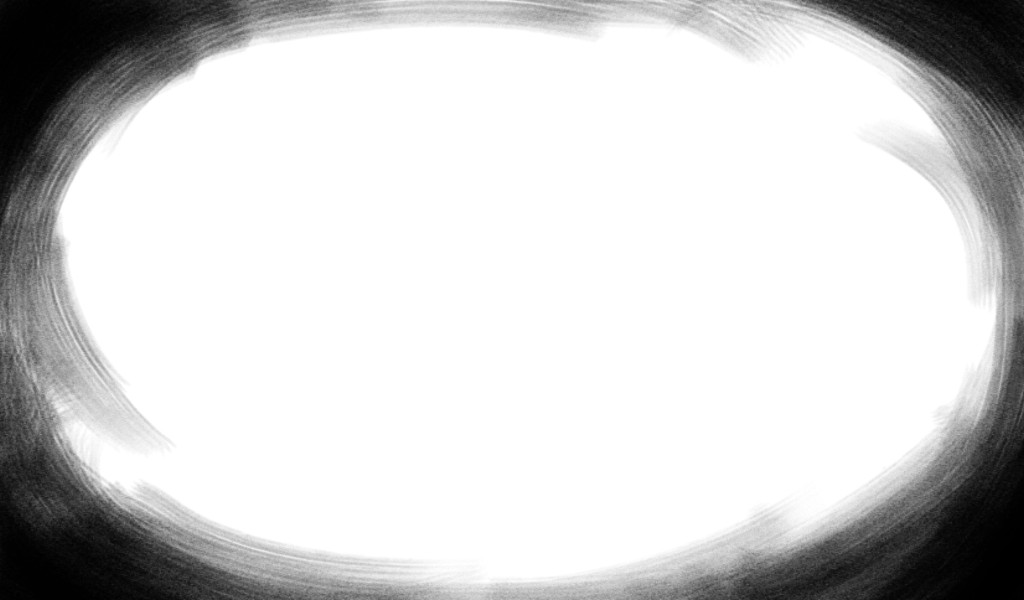
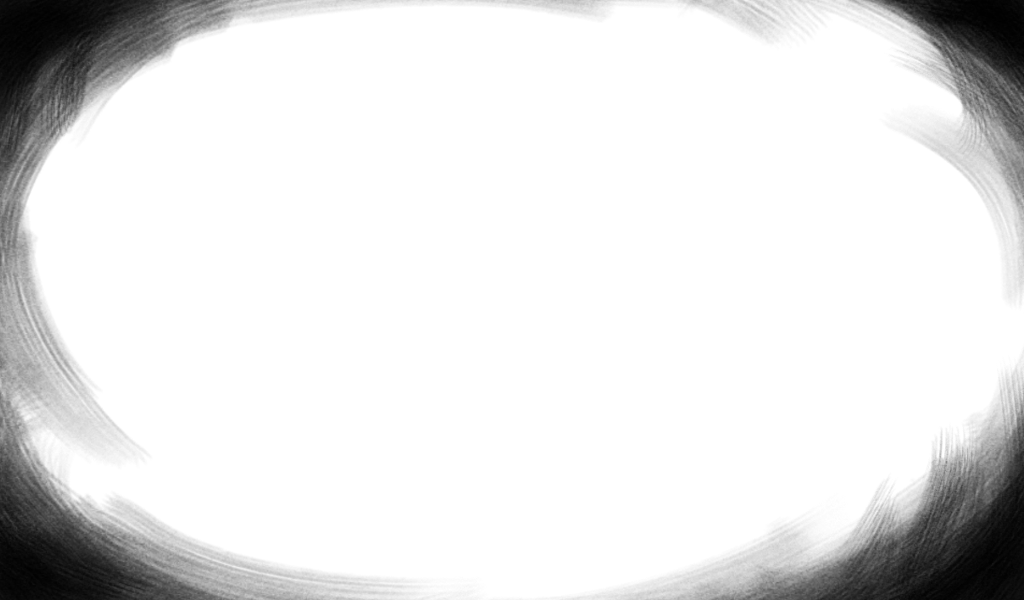
coisas

Changed region(s): [[0.0, 0.0, 1.0, 1.0], [0.8438, 0.99, 0.875, 1.0]]

diff --git a/src/GameState.cpp b/src/GameState.cpp
@@ -30,7 +30,7 @@ unsigned int GameState::nextId_ = 0;
 std::map<int, std::map<int, RenderComponent*>> GameState::mapRender_;
 
 GameState::GameState()
-: changeLevel_(false), music()
+: changeLevel_(false), music(), frameId_(3)
 {
 	frame_ = new StaticSprite("../img/moldura1.png");
 	std::cout << "e" << std::endl;
@@ -135,7 +135,31 @@ void GameState::update(float dt)
 	}
 
 	Camera::update(dt);
-	frame_->update(dt);
+
+	if (mapHealth_[player_]->health_ == 3 && frameId_ != 3)
+	{
+		delete frame_;
+		frame_ = new StaticSprite("../img/moldura1.png");
+		frameId_= 3;
+	}
+	else if (mapHealth_[player_]->health_ == 2 && frameId_ != 2)
+	{
+		delete frame_;
+		frame_ = new StaticSprite("../img/moldura2.png");
+		frameId_= 2;
+	}
+	else if (mapHealth_[player_]->health_ == 1 && frameId_ != 1)
+	{
+		delete frame_;
+		frame_ = new StaticSprite("../img/moldura3.png");
+		frameId_= 1;
+	}
+	else if (mapHealth_[player_]->health_ == 0 && frameId_ != 0)
+	{
+		delete frame_;
+		frame_ = new StaticSprite("../img/moldura4.png");
+		frameId_= 0;
+	}
 
 	deleteDeadEntities();
 
@@ -512,7 +536,7 @@ void GameState::deleteDeadEntities()
 				state->second->state_ = State::IDLE;
 				mapTransform_[player_]->rect_.x( checkpoints[((PlayerStateComponent*)mapState_[player_])->current_checkpoint].rect_.x() );
 				mapTransform_[player_]->rect_.y( checkpoints[((PlayerStateComponent*)mapState_[player_])->current_checkpoint].rect_.y() );
-				mapHealth_[player_]->health_ = 1;
+				mapHealth_[player_]->health_ = 3;
 			}
 			else
 			{
@@ -602,6 +626,7 @@ void GameState::changeLevel()
 
 	delete level_;
 	nextId_ = 0;
+	frameId_ = 3;
 
 	mapTransform_.clear();
 	mapState_.clear();

diff --git a/src/Resources.cpp b/src/Resources.cpp
@@ -18,7 +18,7 @@ int Resources::GRAVITY                 = 0; // pixels per second
 float Resources::PLAYER_WALK_SPEED     = 0; // pixels per second
 float Resources::PLAYER_JUMP_SPEED     = 0; // pixels per second
 float Resources::PLAYER_ZIPLINE_SPEED  = 300;
-float Resources::DYING_TIME            = 3; // seconds
+float Resources::DYING_TIME            = 2.8; // seconds
 float Resources::MAX_SAFE_FALL_TIME    = 2; // seconds
 
 int Resources::GLOBAL_SCALE_X          = 0;

diff --git a/src/HealthSystem.cpp b/src/HealthSystem.cpp
@@ -15,6 +15,15 @@ void HealthSystem::update(float dt, GameState& gameState)
 
 	for (auto& h : health)
 	{
+		if (h.first == gameState.player_ && h.second->health_ < 3)
+		{
+			playerRecoverTime_.update(dt);
+			if (playerRecoverTime_.get() >= 10)
+			{
+				h.second->health_++;
+				playerRecoverTime_.restart();
+			}
+		}
 		if (state[h.first]->state_ == State::DYING)
 		{
 			h.second->timeToDie_.update(dt);

diff --git a/include/HealthSystem.hpp b/include/HealthSystem.hpp
@@ -5,12 +5,14 @@
 
 #include "System.hpp"
 #include "GameState.hpp"
+#include "Timer.hpp"
 
 class HealthSystem : public System
 {
 public:
 	HealthSystem();
 	void update(float dt, GameState& gameState);
+	Timer playerRecoverTime_;
 };
 
 #endif

diff --git a/include/GameState.hpp b/include/GameState.hpp
@@ -90,6 +90,7 @@ private:
 	Level* level_;
 	Music music;
 	StaticSprite* frame_;
+	int frameId_;
 	std::vector<System*> systems_;
 };
 
